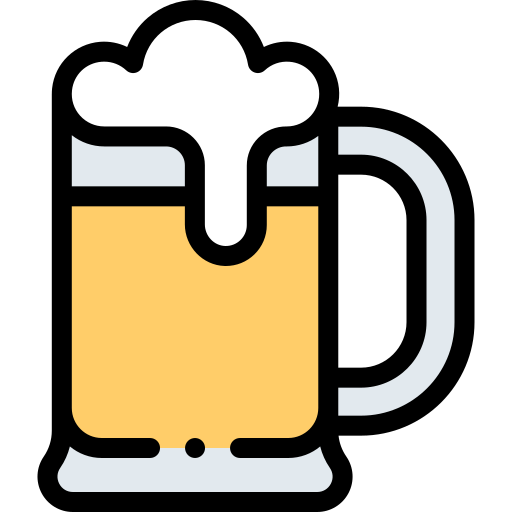
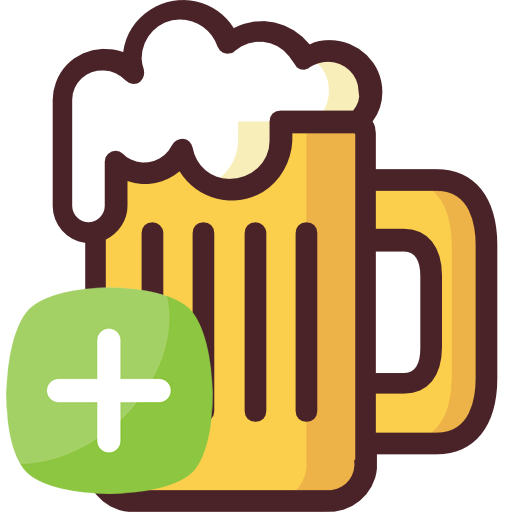
feat: CadBera prototype

diff --git a/lib/app/shared/cad_bera.dart b/lib/app/shared/cad_bera.dart
@@ -1,8 +1,128 @@
+import 'package:datetime_picker_formfield/datetime_picker_formfield.dart';
+import 'package:dropdown_search/dropdown_search.dart';
 import 'package:flutter/material.dart';
+import 'package:flutter_masked_text/flutter_masked_text.dart';
+import 'package:get/get.dart';
+import 'package:intl/intl.dart';
 
 class CadBera extends StatelessWidget {
+  final _dateFormat = DateFormat('dd/MM/yyyy');
+  final _moneyFormat = NumberFormat("#,##0.00", "pt_BR");
+  final _maskMoney = MoneyMaskedTextController(
+      decimalSeparator: ',', thousandSeparator: '.'); //after
+
   @override
   Widget build(BuildContext context) {
-    return Container();
+    return Scaffold(
+        resizeToAvoidBottomInset: false,
+        appBar: AppBar(
+          title: Text("Compartilhe a Promoção"),
+          centerTitle: true,
+          backgroundColor: Colors.red[400],
+        ),
+        floatingActionButton: _buildFloatingActionButton(),
+        body: SafeArea(
+          bottom: true,
+          top: true,
+          child: Form(
+            child: ListView(
+              padding: EdgeInsets.all(16),
+              children: [
+                TextFormField(
+                  decoration: InputDecoration(
+                    border: OutlineInputBorder(
+                      borderRadius: BorderRadius.circular(20),
+                    ),
+                    prefixIcon: const Icon(Icons.pin_drop),
+                    hintText: 'Nome do local',
+                    labelText: 'Nome do Local*',
+                  ),
+                ),
+                SizedBox(height: 10),
+                DropdownSearch<String>(
+                  mode: Mode.MENU,
+                  items: [
+                    "300ml",
+                    "473ml",
+                    "600ml",
+                    "1L",
+                    "5L",
+                    "15L",
+                  ],
+                  label: "Volume",
+                  selectedItem: "300ml",
+                  dropdownSearchDecoration: _buildInputDecoration(),
+                  onChanged: (String data) {
+                    print(data);
+                  },
+                ),
+                SizedBox(height: 10),
+                TextFormField(
+                  controller: _maskMoney,
+                  keyboardType: TextInputType.number,
+                  decoration: InputDecoration(
+                    border: OutlineInputBorder(
+                      borderRadius: BorderRadius.circular(20),
+                    ),
+                    prefixIcon: const Icon(Icons.money),
+                    hintText: "0,00",
+                    labelText: 'Preço*',
+                  ),
+                ),
+                SizedBox(height: 10),
+                DateTimeField(
+                    format: _dateFormat,
+                    decoration: InputDecoration(
+                        labelText: "Data Fim",
+                        border: OutlineInputBorder(
+                          borderRadius: BorderRadius.circular(20),
+                        )),
+                    initialValue: DateTime.now(),
+                    onShowPicker: (context, currentValue) {
+                      return showDatePicker(
+                        context: context,
+                        // firstDate: DateTime.now(),
+                        //  initialDate: currentValue ?? DateTime.now(),
+                        lastDate: DateTime(2100), firstDate: DateTime.now(),
+                        initialDate: DateTime.now(),
+                      );
+                    }),
+                SizedBox(height: 10),
+                Container(
+                  decoration: BoxDecoration(
+                    borderRadius: BorderRadius.circular(16),
+                    color: Theme.of(context).primaryColor,
+                  ),
+                )
+              ],
+            ),
+          ),
+        ));
+  }
+
+  InputDecoration _buildInputDecoration() {
+    return InputDecoration(
+        border: OutlineInputBorder(
+      borderRadius: BorderRadius.circular(20),
+    ));
+  }
+
+  _buildFloatingActionButton() {
+    return SizedBox(
+      height: 100,
+      width: 100,
+      child: Container(
+        child: FloatingActionButton(
+          elevation: 5,
+          backgroundColor: Colors.red[200],
+          isExtended: true,
+          child: Image(
+              image: AssetImage("assets/images/beer_add.png"), width: 115.0),
+          onPressed: () {
+            Get.back();
+          },
+        ),
+      ),
+    );
   }
 }

diff --git a/lib/app/modules/home/views/home_view.dart b/lib/app/modules/home/views/home_view.dart
@@ -1,3 +1,4 @@
+import 'package:bora_bebe/app/shared/cad_bera.dart';
 import 'package:flutter/material.dart';
 import 'package:get/get.dart';
 import 'package:bora_bebe/app/modules/home/controllers/home_controller.dart';
@@ -33,9 +34,18 @@ class HomeView extends GetView<HomeController> {
   }
 
   _buildFloatingActionButton() {
-    return FloatingActionButton(
-      child: Image(image: AssetImage("assets/images/beer.png"), width: 60.0),
-      onPressed: () {},
+    return SizedBox(
+      height: 100,
+      width: 100,
+      child: Container(
+        child: FloatingActionButton(
+          child:
+              Image(image: AssetImage("assets/images/beer.png"), width: 60.0),
+          onPressed: () {
+            Get.dialog(CadBera());
+          },
+        ),
+      ),
     );
   }
 }

diff --git a/lib/main.dart b/lib/main.dart
@@ -3,6 +3,7 @@ import 'package:flutter/material.dart';
 import 'package:get/get.dart';
 import 'package:firebase_core/firebase_core.dart';
 import 'package:get_storage/get_storage.dart';
+import 'package:flutter_localizations/flutter_localizations.dart';
 
 import 'app/routes/app_pages.dart';
 
@@ -18,6 +19,11 @@ void main() async {
       debugShowCheckedModeBanner: false,
       initialRoute: '/',
       getPages: AppPages.routes,
+      localizationsDelegates: [
+        GlobalMaterialLocalizations.delegate,
+        GlobalWidgetsLocalizations.delegate
+      ],
+      supportedLocales: [const Locale('pt', 'BR')],
     ),
   );
 }

diff --git a/lib/app/modules/config_lugar/controllers/config_lugar_controller.dart b/lib/app/modules/config_lugar/controllers/config_lugar_controller.dart
@@ -16,7 +16,7 @@ class ConfigLugarController extends GetxController {
   set municipioSelecionado(value) =>
       this._municipioSelecionado.value.nome = value;
   String get municipioSelecionado =>
-      this._municipioSelecionado?.value.nome == null
+      this._municipioSelecionado?.value?.nome == null
           ? ''
           : this._municipioSelecionado.value.nome.toUpperCase();
 

diff --git a/lib/app/modules/config_lugar/views/config_lugar_view.dart b/lib/app/modules/config_lugar/views/config_lugar_view.dart
@@ -10,7 +10,7 @@ class ConfigLugarView extends GetView<ConfigLugarController> {
   @override
   Widget build(BuildContext context) {
     return Scaffold(
-      resizeToAvoidBottomPadding: false,
+      resizeToAvoidBottomInset: false,
       body: Container(
         decoration: _buildFundoGradiente(),
         child: Container(
